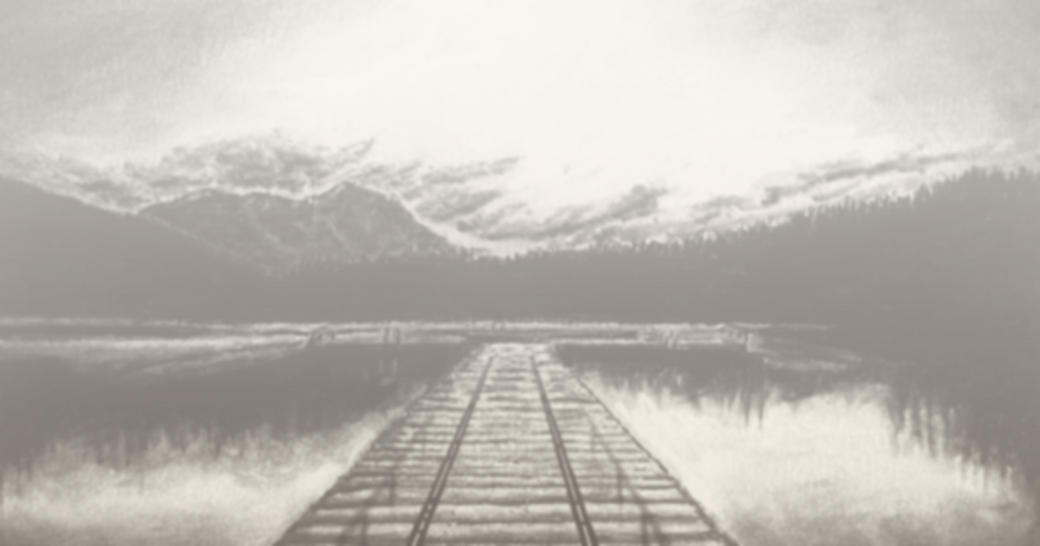
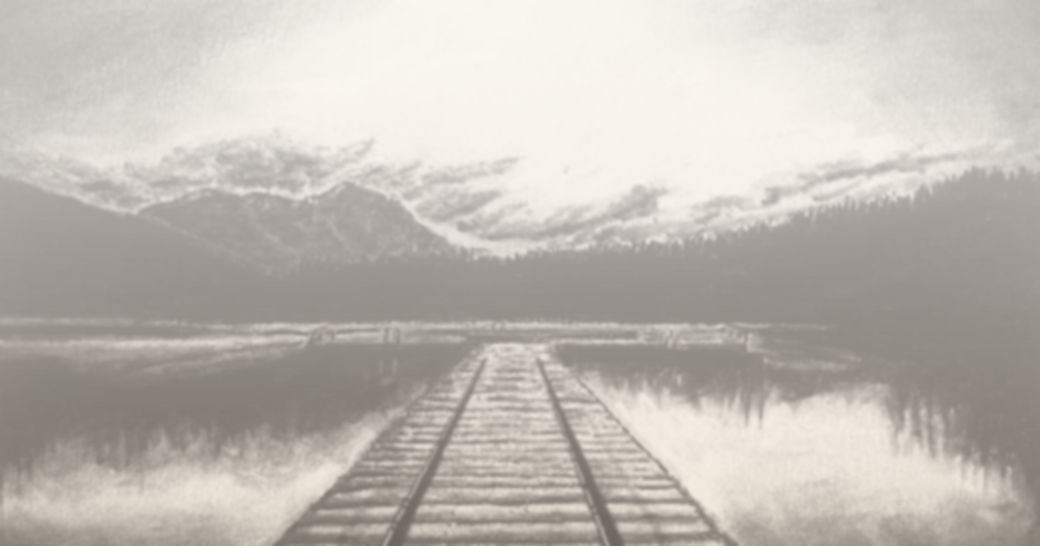
Rails redrawn: true wide gauge, charcoal-stroke style, pilings removed (build 36)
Playtest: the rails weren't actually widened — they sat at 24%/76% of the deck
(barely past the old dock boards) and the edge pilings read as the rails.
Redraw: rails now ride at 17%/83%, just inside the deck edges on the lit
planking; the pilings are gone. Style matches the charcoal: three jittered
build-up passes + a pressure-varied dark core, coarse paper-tooth grain, soft
edges, and a continuous graphite sheen hugging the lit shoulder. Under-deck
shadow kept (softer) for the raised-bridge read. Verified at full size and in
a zoomed crop before processing; rails stay clearly legible through the sepia
background treatment.

Changed region(s): [[0.4615, 0.6538, 0.6462, 1.0], [0.3692, 0.685, 0.4615, 1.0]]

diff --git a/index.html b/index.html
@@ -448,7 +448,7 @@
 <script>
 // BUILD stamps the local script URLs so index.html and its JS can never be
 // cached out of sync. Bump together with version.json on every deploy.
-const BUILD = 35;
+const BUILD = 36;
 ['js/rng.js', 'js/grader.js', 'js/builder.js', 'js/engine.js', 'js/cloud.js', 'content/content.js'].forEach(s =>
   document.write(`<script src="${s}?v=${BUILD}"><\/script>`));
 </script>